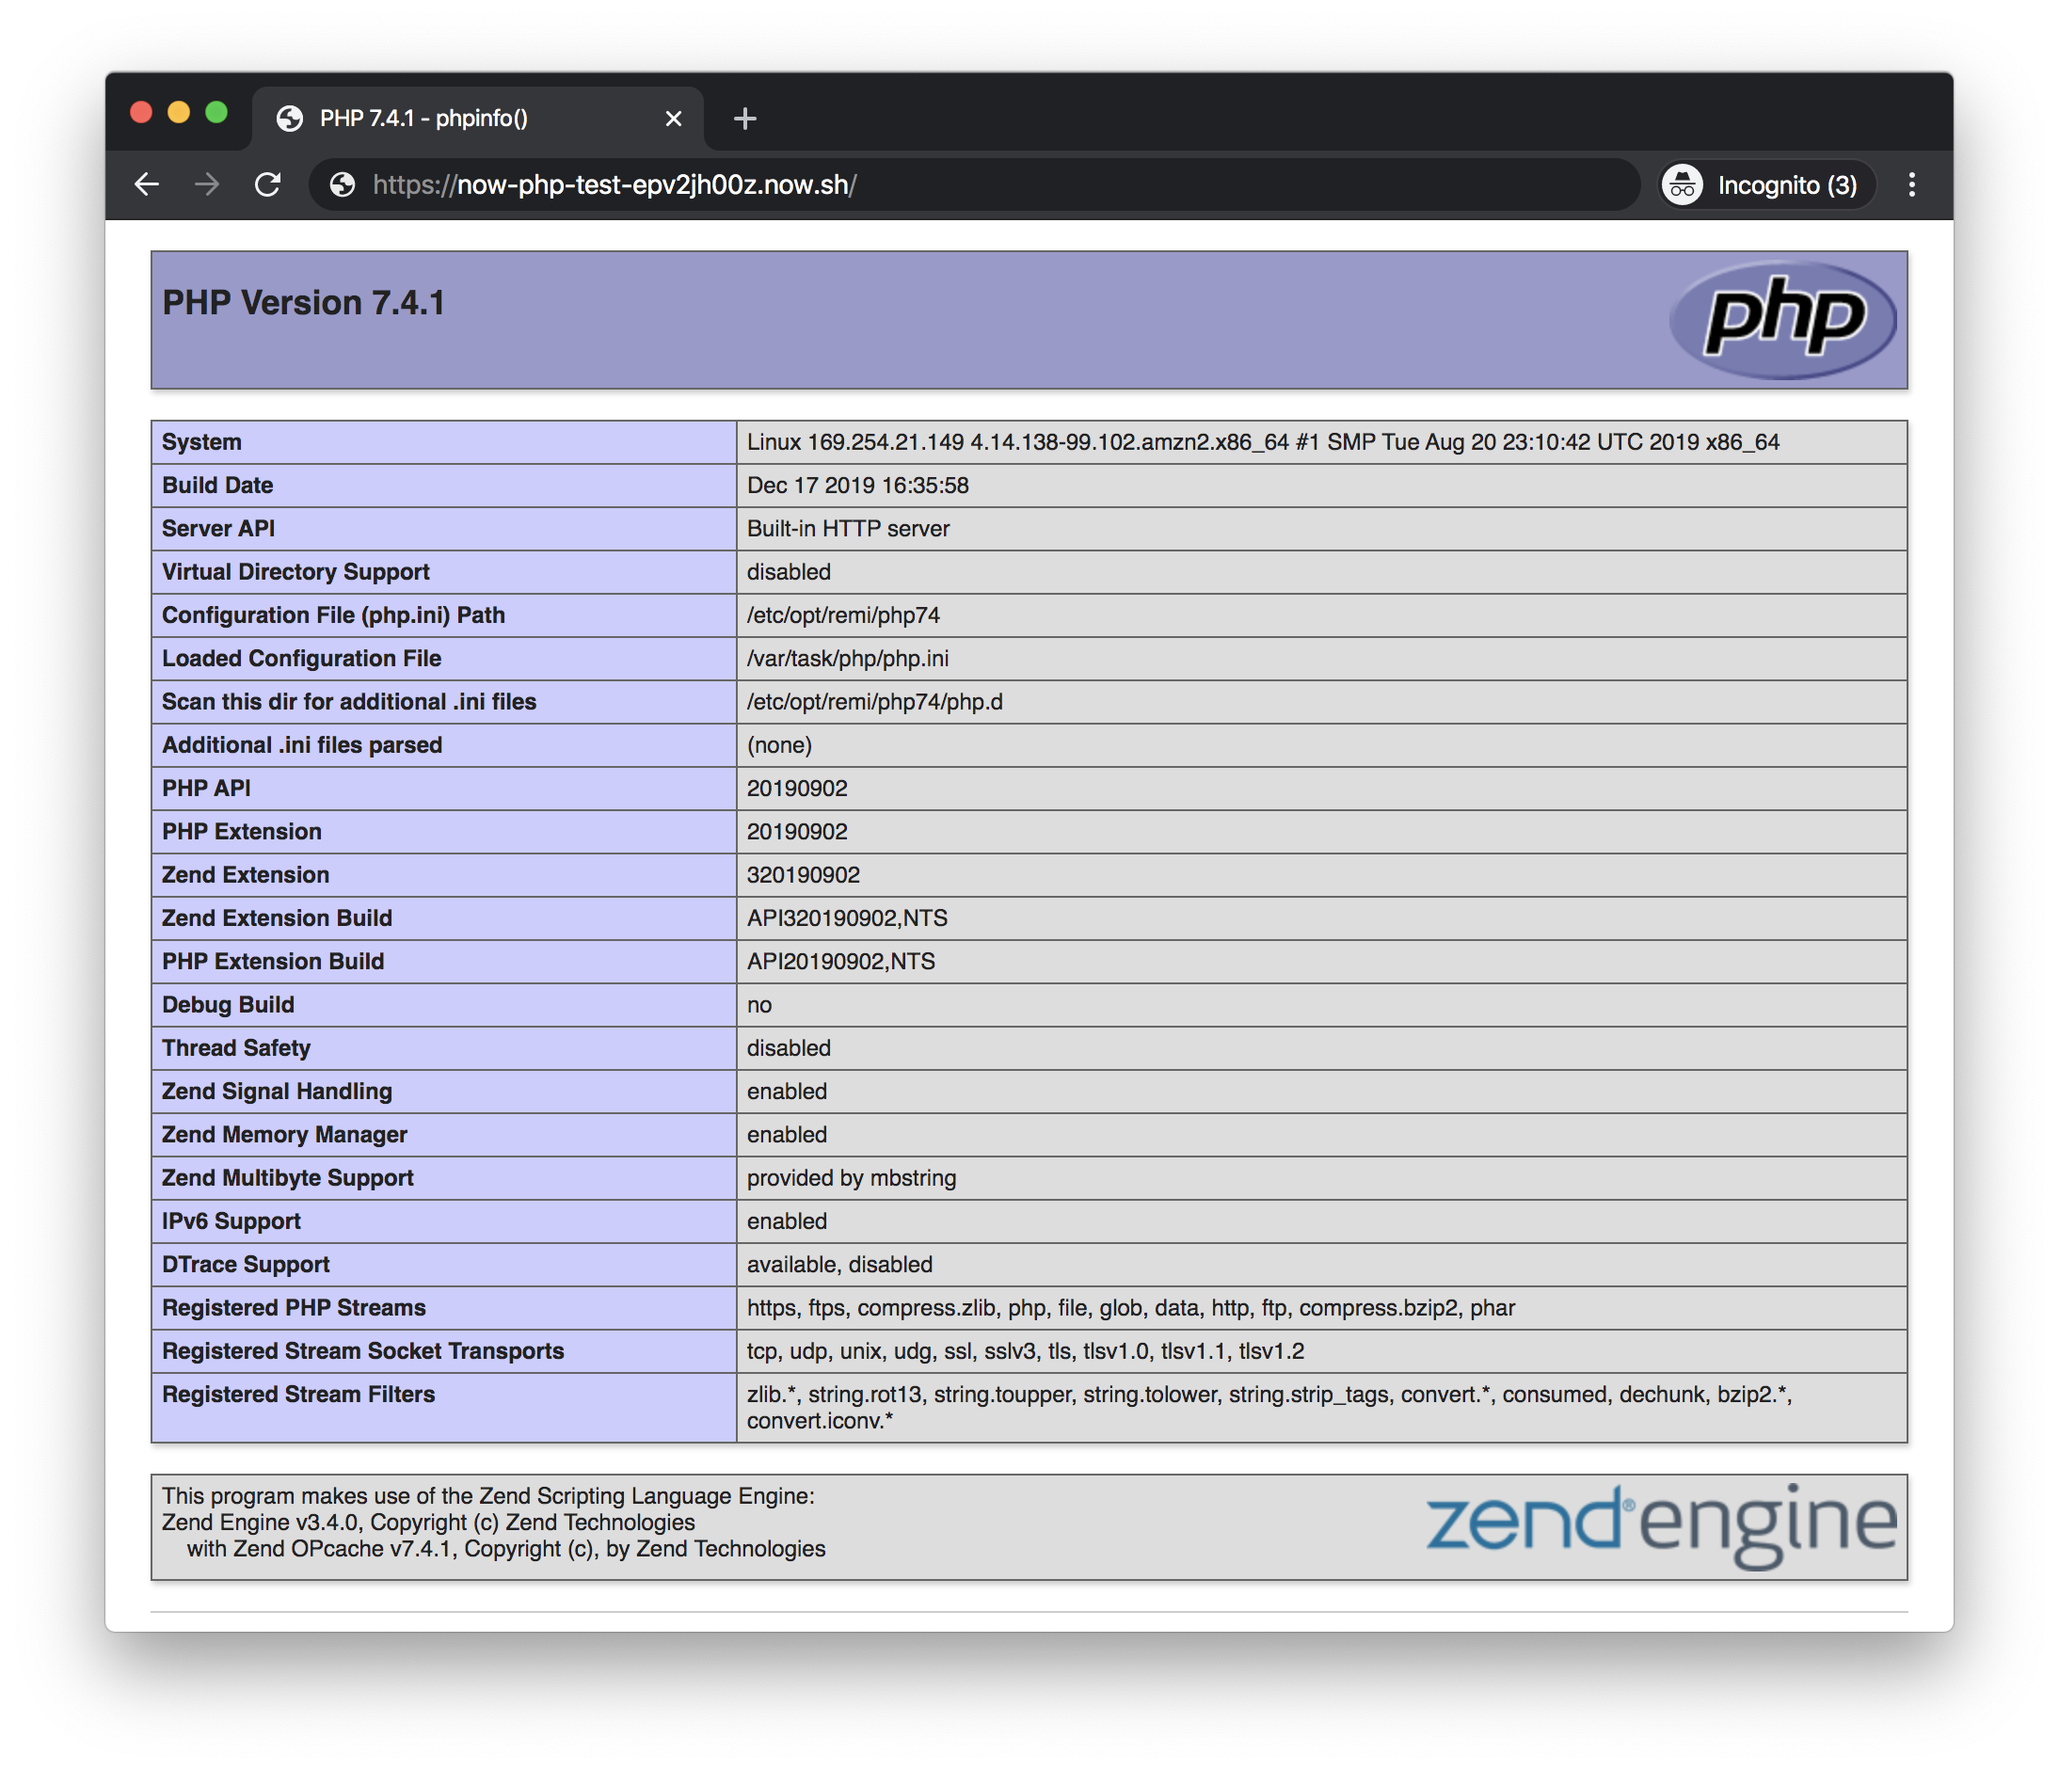
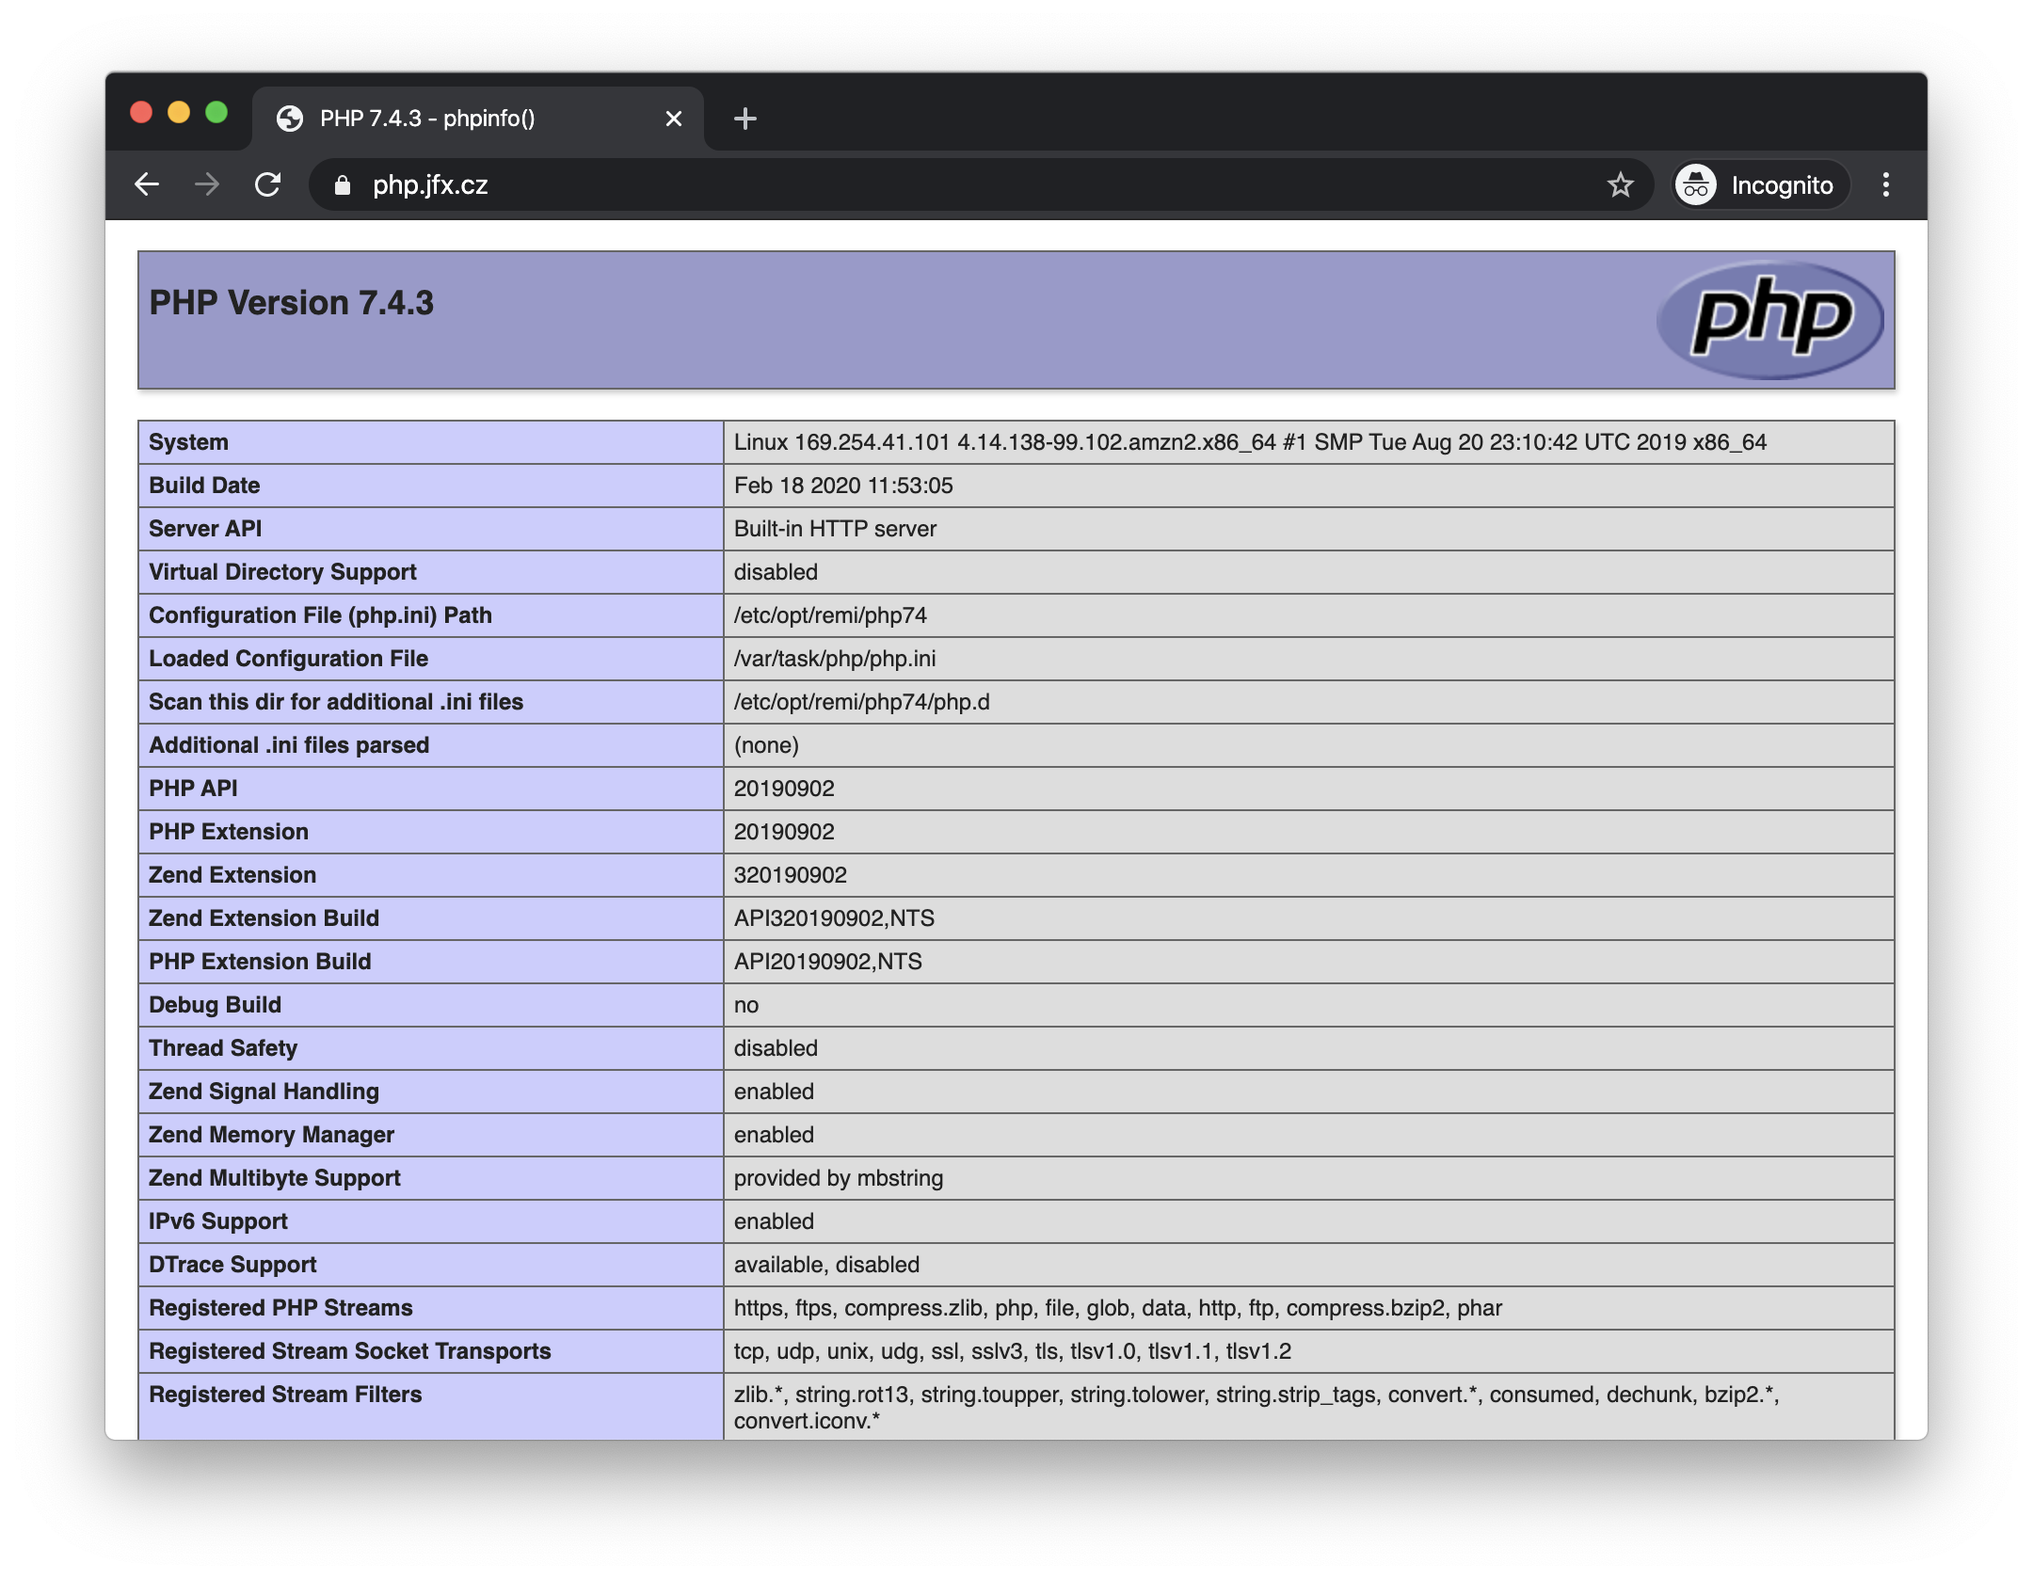
Readme: info about new version

Changed region(s): [[0.031, 0.031, 0.9616, 0.9297]]

diff --git a/README.md b/README.md
@@ -38,7 +38,7 @@ Enjoyable & powerful 🐘 PHP Runtime for ZEIT Now.
 ## 🤗 Features
 
 - **Architecture**: PHP development server (🚀 fast enough)
-- **PHP version**: 7.4.2RC1
+- **PHP version**: 7.4.3
 - **Extensions**: apcu, bcmath, bz2, calendar, Core, ctype, curl, date, dom, ds, exif, fileinfo, filter, ftp, gettext, hash, iconv, json, libxml, mbstring, mysqli, mysqlnd, openssl, pcntl, pcre, PDO, pdo_mysql, pdo_pgsql, pdo_sqlite, phalcon (4.0.2), Phar, psr (0.7.0), readline, Reflection, session, SimpleXML, soap, sockets, sodium, SPL, sqlite3, *ssh2* (not now), standard, swoole (4.4.15), tokenizer, xml, xmlreader, xmlrpc, xmlwriter, xsl, Zend OPcache, zlib
 - **Speed**: cold ~250ms / warm ~5ms
 - **Memory**: ~90mb
